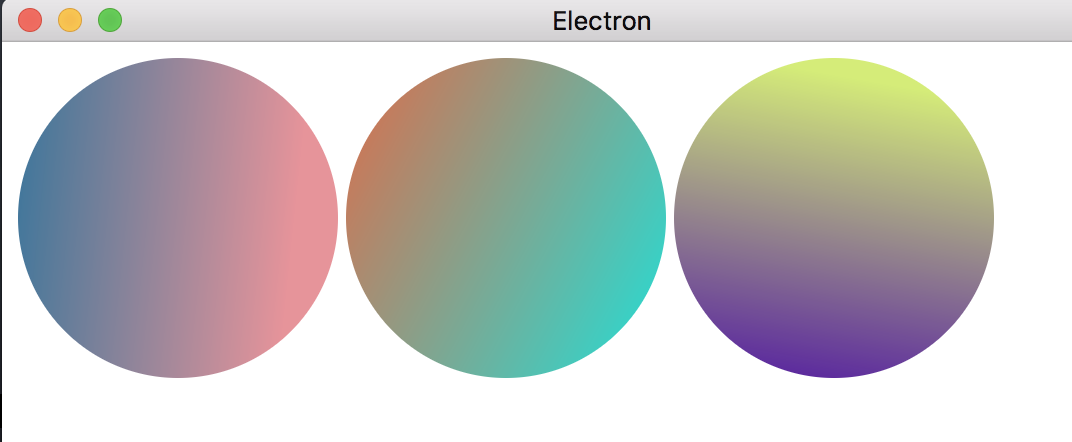
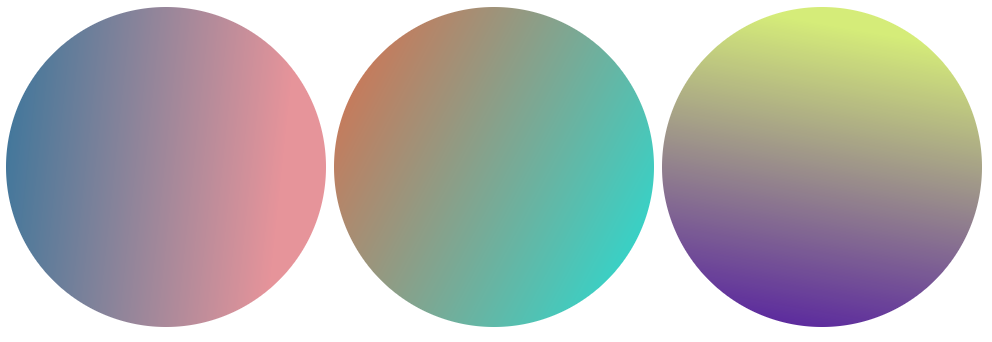
added example

diff --git a/README.md b/README.md
@@ -3,3 +3,5 @@
 Generate random avatars with css.
 
 At this stage just trying out some things with css variables.
+
+![](https://raw.githubusercontent.com/joshwnj/css-avatars/master/example.png)
